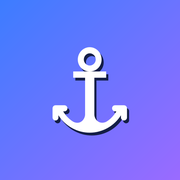
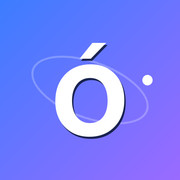
feat: rebranding a "Órbita" + categorías personalizables
- Nuevo nombre e ícono monograma (Ó con órbita)
- Categorías creables/editables/borrables con color (adiós a las fijas)
- Estética más neutra/civil

diff --git a/ORGANIZADOR_PERSONAL.html b/ORGANIZADOR_PERSONAL.html
@@ -1,6 +1,6 @@
 <meta charset="UTF-8">
 <meta name="viewport" content="width=device-width, initial-scale=1.0, viewport-fit=cover">
-<title>Bitácora · Organizador Personal</title>
+<title>Órbita · Organizador Personal</title>
 <meta name="theme-color" content="#0e1524">
 <link rel="manifest" href="manifest.webmanifest">
 <link rel="apple-touch-icon" href="icon-180.png">
@@ -8,7 +8,7 @@
 <meta name="apple-mobile-web-app-capable" content="yes">
 <meta name="mobile-web-app-capable" content="yes">
 <meta name="apple-mobile-web-app-status-bar-style" content="black-translucent">
-<meta name="apple-mobile-web-app-title" content="Bitácora">
+<meta name="apple-mobile-web-app-title" content="Órbita">
 <style>
   :root{
     --bg:#0e1524; --bg2:#131c30; --panel:#18233b; --panel2:#1f2c48;
@@ -241,8 +241,8 @@
 <!-- ===== SIDEBAR ===== -->
 <aside class="sidebar" id="sidebar">
   <div class="brand">
-    <div class="logo">⚓</div>
-    <div><h1>Bitácora</h1><span id="brandSub">Organizador personal</span></div>
+    <div class="logo" style="font-weight:800;font-size:22px">Ó</div>
+    <div><h1>Órbita</h1><span id="brandSub">Organizador personal</span></div>
   </div>
   <nav class="nav" id="nav">
     <button data-view="hoy" class="active"><span class="ic">🏠</span> Hoy</button>
@@ -287,7 +287,7 @@
 
 <script>
 /* ============================================================
-   BITÁCORA — Organizador personal (100% local + respaldo)
+   ÓRBITA — Organizador personal (100% local + respaldo)
    ============================================================ */
 const LS_KEY = 'bitacora_v1';
 const DEFAULT = {
@@ -295,7 +295,15 @@ const DEFAULT = {
   settings:{ theme:'dark' },
   tareas:[], eventos:[], guardias:[], ramos:[], notas:[],
   ingles:{ sesiones:[], vocab:[] },
-  inspecciones:[]
+  inspecciones:[],
+  categorias:[
+    { id:'c1', nombre:'Trabajo',  color:'var(--accent)' },
+    { id:'c2', nombre:'Estudios', color:'var(--gold)' },
+    { id:'c3', nombre:'Personal', color:'var(--green)' },
+    { id:'c4', nombre:'Salud',    color:'var(--teal)' },
+    { id:'c5', nombre:'Hogar',    color:'var(--purple)' },
+    { id:'c6', nombre:'Finanzas', color:'var(--red)' }
+  ]
 };
 let S = load();
 let view = 'hoy';
@@ -437,7 +445,7 @@ function vHoy(c){
 
   let html = `
   <div class="card" style="background:linear-gradient(135deg,var(--accent),var(--purple));border:none;color:#fff;margin-bottom:22px">
-    <div style="font-size:24px;font-weight:800">${saludo}${nombre?', '+nombre:''} ⚓</div>
+    <div style="font-size:24px;font-weight:800">${saludo}${nombre?', '+nombre:''} 🪐</div>
     <div style="opacity:.9;margin-top:4px;font-size:14px">${fmtLargo(hoy)} · ${pend} tarea${pend!==1?'s':''} pendiente${pend!==1?'s':''}${tareasVenc.length?` · <b>${tareasVenc.length} vencida${tareasVenc.length!==1?'s':''}</b>`:''}</div>
   </div>`;
 
@@ -487,8 +495,71 @@ function stat(cls,ic,val,lbl){
    VISTA: TAREAS
    ============================================================ */
 let tareaFiltro='pend', tareaCat='todas';
-const CATS = ['Inspección','Guardia','Universidad','Inglés','Personal'];
-const CAT_COLOR = {'Inspección':'var(--red)','Guardia':'var(--teal)','Universidad':'var(--gold)','Inglés':'var(--purple)','Personal':'var(--green)'};
+/* ---- Categorías personalizables ---- */
+const CAT_PALETTE=['var(--accent)','var(--purple)','var(--teal)','var(--green)','var(--gold)','var(--red)','var(--accent2)'];
+function cats(){ return S.categorias||[]; }
+function catNames(){ return cats().map(c=>c.nombre); }
+function catColor(nombre){ const c=cats().find(x=>x.nombre===nombre); return c?c.color:'var(--muted)'; }
+function catOptions(sel){
+  const names=catNames().slice();
+  let html=`<option value="" ${!sel?'selected':''}>— Sin categoría —</option>`;
+  if(sel && !names.includes(sel)) names.unshift(sel);
+  return html + names.map(x=>`<option ${sel===x?'selected':''}>${esc(x)}</option>`).join('');
+}
+function categoriasCardHTML(){
+  const cs=cats();
+  return `<div class="card" style="margin-bottom:18px">
+    <h2 style="font-size:16px;margin-bottom:6px">🗂 Categorías</h2>
+    <p style="font-size:13px;color:var(--txt2);line-height:1.55;margin-bottom:14px">
+      Organiza tus tareas y eventos por las áreas que tú quieras. Crea, renombra o elimina las que necesites.
+    </p>
+    <div>${cs.length? cs.map(c=>`
+      <div class="item" style="padding:11px 14px">
+        <span class="dot" style="background:${c.color};width:14px;height:14px"></span>
+        <div class="it-body"><div class="it-title" style="font-size:14px">${esc(c.nombre)}</div></div>
+        <div class="it-actions">
+          <button class="mini-btn" onclick="modalCategoria('${c.id}')">✏</button>
+          <button class="mini-btn" onclick="delCategoria('${c.id}')">🗑</button>
+        </div>
+      </div>`).join('') : '<div class="empty" style="padding:16px">Sin categorías todavía</div>'}
+    </div>
+    <button class="btn sm" style="margin-top:6px" onclick="modalCategoria()">＋ Nueva categoría</button>
+  </div>`;
+}
+function modalCategoria(id){
+  const c = id ? cats().find(x=>x.id===id) : { nombre:'', color:CAT_PALETTE[cats().length%CAT_PALETTE.length] };
+  openModal(id?'Editar categoría':'Nueva categoría', `
+    <label class="fld"><span>Nombre</span><input id="catN" value="${esc(c.nombre)}" placeholder="Ej: Trabajo, Familia, Proyecto X..."></label>
+    <label class="fld"><span>Color</span><div style="display:flex;gap:8px;flex-wrap:wrap">${CAT_PALETTE.map(col=>`<button type="button" onclick="document.getElementById('catColor').value='${col}';[...this.parentNode.children].forEach(b=>b.style.outline='');this.style.outline='2px solid #fff'" style="width:34px;height:34px;border-radius:8px;border:none;cursor:pointer;background:${col};outline:${c.color===col?'2px solid #fff':''}"></button>`).join('')}</div><input type="hidden" id="catColor" value="${c.color}"></label>
+  `, `<button class="btn ghost" onclick="closeModal()">Cancelar</button><button class="btn" onclick="saveCategoria('${id||''}')">Guardar</button>`);
+  setTimeout(()=>document.getElementById('catN').focus(),50);
+}
+function saveCategoria(id){
+  const nombre=document.getElementById('catN').value.trim();
+  const color=document.getElementById('catColor').value;
+  if(!nombre){ toast('Escribe un nombre','⚠'); return; }
+  if(!S.categorias) S.categorias=[];
+  if(cats().some(x=>x.nombre===nombre && x.id!==id)){ toast('Ya existe una categoría con ese nombre','⚠'); return; }
+  if(id){
+    const c=S.categorias.find(x=>x.id===id); const antiguo=c.nombre;
+    c.nombre=nombre; c.color=color;
+    if(antiguo!==nombre){
+      S.tareas.forEach(t=>{ if(t.cat===antiguo) t.cat=nombre; });
+      S.eventos.forEach(e=>{ if(e.cat===antiguo) e.cat=nombre; });
+    }
+  } else {
+    S.categorias.push({ id:uid(), nombre, color });
+  }
+  save(); closeModal(); render(); toast(id?'Categoría actualizada':'Categoría creada','🗂');
+}
+function delCategoria(id){
+  const c=cats().find(x=>x.id===id); if(!c) return;
+  if(!confirm(`¿Eliminar la categoría "${c.nombre}"? Las tareas y eventos que la usen quedarán sin categoría.`)) return;
+  S.categorias=S.categorias.filter(x=>x.id!==id);
+  S.tareas.forEach(t=>{ if(t.cat===c.nombre) t.cat=''; });
+  S.eventos.forEach(e=>{ if(e.cat===c.nombre) e.cat=''; });
+  save(); render(); toast('Categoría eliminada','🗑');
+}
 function vTareas(c, top){
   top.innerHTML = `<button class="btn" onclick="modalTarea()">＋ Nueva tarea</button>`;
   let list = S.tareas.slice();
@@ -503,7 +574,7 @@ function vTareas(c, top){
     ${filterBtn('tareaFiltro','pend','Pendientes')} ${filterBtn('tareaFiltro','hechas','Completadas')} ${filterBtn('tareaFiltro','todas','Todas')}
   </div><div class="filters">
     ${filterBtn('tareaCat','todas','Todas las áreas')}
-    ${CATS.map(cat=>filterBtn('tareaCat',cat,cat)).join('')}
+    ${catNames().map(cat=>filterBtn('tareaCat',cat,cat)).join('')}
   </div>`;
   if(!list.length){
     html += `<div class="card"><div class="empty"><span class="em-ic">🗂</span>No hay tareas aquí. ¡Crea una con el botón de arriba!</div></div>`;
@@ -523,7 +594,7 @@ function taskItem(t){
     <div class="it-body">
       <div class="it-title">${esc(t.titulo)}</div>
       <div class="it-meta">
-        ${t.cat?`<span class="chip" style="background:${CAT_COLOR[t.cat]}22;color:${CAT_COLOR[t.cat]}">${t.cat}</span>`:''}
+        ${t.cat?`<span class="chip" style="background:${catColor(t.cat)}22;color:${catColor(t.cat)}">${esc(t.cat)}</span>`:''}
         <span class="dot bg-${t.pri}"></span><span class="pri-${t.pri}">${t.pri}</span>
         ${t.fecha?`<span style="color:${venc?'var(--red)':'var(--muted)'}">📅 ${relFecha(t.fecha)}</span>`:''}
       </div>
@@ -537,11 +608,11 @@ function taskItem(t){
 function toggleTarea(id){ const t=S.tareas.find(x=>x.id===id); t.done=!t.done; save(); render(); if(t.done) toast('¡Tarea completada!','🎉'); }
 function delTarea(id){ S.tareas=S.tareas.filter(x=>x.id!==id); save(); render(); toast('Tarea eliminada','🗑'); }
 function modalTarea(id){
-  const t = id ? S.tareas.find(x=>x.id===id) : {titulo:'',cat:'Personal',pri:'media',fecha:'',notas:''};
+  const t = id ? S.tareas.find(x=>x.id===id) : {titulo:'',cat:(catNames()[0]||''),pri:'media',fecha:'',notas:''};
   openModal(id?'Editar tarea':'Nueva tarea', `
     <label class="fld"><span>¿Qué tienes que hacer?</span><input id="mT" value="${esc(t.titulo)}" placeholder="Ej: Estudiar cálculo, revisar armamento..."></label>
     <div class="row">
-      <label class="fld"><span>Área</span><select id="mC">${CATS.map(x=>`<option ${t.cat===x?'selected':''}>${x}</option>`).join('')}</select></label>
+      <label class="fld"><span>Área</span><select id="mC">${catOptions(t.cat)}</select></label>
       <label class="fld"><span>Prioridad</span><select id="mP">${['alta','media','baja'].map(x=>`<option ${t.pri===x?'selected':''}>${x}</option>`).join('')}</select></label>
     </div>
     <label class="fld"><span>Fecha límite (opcional)</span><input type="date" id="mF" value="${t.fecha||''}"></label>
@@ -601,14 +672,14 @@ function vAgenda(c, top){
 }
 function calMove(n){ calDate.setMonth(calDate.getMonth()+n); render(); }
 function modalEvento(id,fecha){
-  const e = id ? S.eventos.find(x=>x.id===id) : {titulo:'',fecha:fecha||hoyISO(),hora:'',cat:'Personal',notas:''};
+  const e = id ? S.eventos.find(x=>x.id===id) : {titulo:'',fecha:fecha||hoyISO(),hora:'',cat:(catNames()[0]||''),notas:''};
   openModal(id?'Editar evento':'Nuevo evento',`
     <label class="fld"><span>Título</span><input id="eT" value="${esc(e.titulo)}" placeholder="Ej: Sesión de inglés, reunión..."></label>
     <div class="row">
       <label class="fld"><span>Fecha</span><input type="date" id="eF" value="${e.fecha}"></label>
       <label class="fld"><span>Hora</span><input type="time" id="eH" value="${e.hora||''}"></label>
     </div>
-    <label class="fld"><span>Categoría</span><select id="eC">${CATS.map(x=>`<option ${e.cat===x?'selected':''}>${x}</option>`).join('')}</select></label>
+    <label class="fld"><span>Categoría</span><select id="eC">${catOptions(e.cat)}</select></label>
     <label class="fld"><span>Notas</span><textarea id="eN" rows="2">${esc(e.notas||'')}</textarea></label>
     ${id?`<button class="btn danger sm" onclick="delEvento('${id}')">🗑 Eliminar evento</button>`:''}
   `,`<button class="btn ghost" onclick="closeModal()">Cancelar</button><button class="btn" onclick="saveEvento('${id||''}')">Guardar</button>`);
@@ -987,6 +1058,8 @@ function vAjustes(c){
       <button class="btn sm" onclick="render();toast('Perfil guardado')">Guardar perfil</button>
     </div>
 
+    ${categoriasCardHTML()}
+
     ${driveCardHTML()}
 
     <div class="card" style="margin-bottom:18px">
@@ -1021,7 +1094,7 @@ function vAjustes(c){
       <button class="btn danger sm" onclick="wipeData()">🗑 Borrar todos los datos</button>
     </div>
 
-    <p style="text-align:center;color:var(--muted);font-size:12px;margin-top:24px">Bitácora · Organizador personal · 100% privado, funciona sin internet ⚓</p>`;
+    <p style="text-align:center;color:var(--muted);font-size:12px;margin-top:24px">Órbita · Organizador personal · 100% privado, funciona sin internet 🪐</p>`;
 }
 function exportData(){
   const blob=new Blob([JSON.stringify(S,null,2)],{type:'application/json'});

diff --git a/sw.js b/sw.js
@@ -1,5 +1,5 @@
 /* Bitácora — Service Worker (modo offline) */
-const CACHE = 'bitacora-v1';
+const CACHE = 'orbita-v2';
 const ASSETS = [
   'ORGANIZADOR_PERSONAL.html',
   'manifest.webmanifest',
